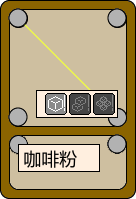
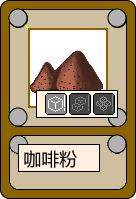
Update Art

Changed region(s): [[0.2059, 0.1206, 0.7941, 0.5427]]

diff --git a/Assets/GameMain/Scripts/DataTable/DREntity.cs b/Assets/GameMain/Scripts/DataTable/DREntity.cs
@@ -5,7 +5,7 @@
 // Feedback: mailto:ellan@gameframework.cn
 //------------------------------------------------------------
 // 此文件由工具自动生成，请勿直接修改。
-// 生成时间：2023-09-23 15:54:26.956
+// 生成时间：2023-09-24 12:53:18.648
 //------------------------------------------------------------
 
 using GameFramework;

diff --git a/Assets/GameMain/Scripts/DataTable/DRLevel.cs b/Assets/GameMain/Scripts/DataTable/DRLevel.cs
@@ -5,7 +5,7 @@
 // Feedback: mailto:ellan@gameframework.cn
 //------------------------------------------------------------
 // 此文件由工具自动生成，请勿直接修改。
-// 生成时间：2023-09-23 15:54:26.966
+// 生成时间：2023-09-24 12:53:18.681
 //------------------------------------------------------------
 
 using GameFramework;

diff --git a/Assets/GameMain/Scripts/DataTable/DRNode.cs b/Assets/GameMain/Scripts/DataTable/DRNode.cs
@@ -5,7 +5,7 @@
 // Feedback: mailto:ellan@gameframework.cn
 //------------------------------------------------------------
 // 此文件由工具自动生成，请勿直接修改。
-// 生成时间：2023-09-23 15:54:26.962
+// 生成时间：2023-09-24 12:53:18.668
 //------------------------------------------------------------
 
 using GameFramework;

diff --git a/Assets/GameMain/Scripts/DataTable/DROrder.cs b/Assets/GameMain/Scripts/DataTable/DROrder.cs
@@ -5,7 +5,7 @@
 // Feedback: mailto:ellan@gameframework.cn
 //------------------------------------------------------------
 // 此文件由工具自动生成，请勿直接修改。
-// 生成时间：2023-09-23 15:54:26.964
+// 生成时间：2023-09-24 12:53:18.674
 //------------------------------------------------------------
 
 using GameFramework;

diff --git a/Assets/GameMain/Scripts/DataTable/DRRecipe.cs b/Assets/GameMain/Scripts/DataTable/DRRecipe.cs
@@ -5,7 +5,7 @@
 // Feedback: mailto:ellan@gameframework.cn
 //------------------------------------------------------------
 // 此文件由工具自动生成，请勿直接修改。
-// 生成时间：2023-09-23 15:54:26.971
+// 生成时间：2023-09-24 12:53:18.691
 //------------------------------------------------------------
 
 using GameFramework;

diff --git a/Assets/GameMain/Scripts/DataTable/DRScene.cs b/Assets/GameMain/Scripts/DataTable/DRScene.cs
@@ -5,7 +5,7 @@
 // Feedback: mailto:ellan@gameframework.cn
 //------------------------------------------------------------
 // 此文件由工具自动生成，请勿直接修改。
-// 生成时间：2023-09-23 15:54:26.960
+// 生成时间：2023-09-24 12:53:18.666
 //------------------------------------------------------------
 
 using GameFramework;

diff --git a/Assets/GameMain/Scripts/DataTable/DRSound.cs b/Assets/GameMain/Scripts/DataTable/DRSound.cs
@@ -5,7 +5,7 @@
 // Feedback: mailto:ellan@gameframework.cn
 //------------------------------------------------------------
 // 此文件由工具自动生成，请勿直接修改。
-// 生成时间：2023-09-23 15:54:26.968
+// 生成时间：2023-09-24 12:53:18.689
 //------------------------------------------------------------
 
 using GameFramework;

diff --git a/Assets/GameMain/Scripts/DataTable/DRUIForms.cs b/Assets/GameMain/Scripts/DataTable/DRUIForms.cs
@@ -5,7 +5,7 @@
 // Feedback: mailto:ellan@gameframework.cn
 //------------------------------------------------------------
 // 此文件由工具自动生成，请勿直接修改。
-// 生成时间：2023-09-23 15:54:26.958
+// 生成时间：2023-09-24 12:53:18.659
 //------------------------------------------------------------
 
 using GameFramework;
